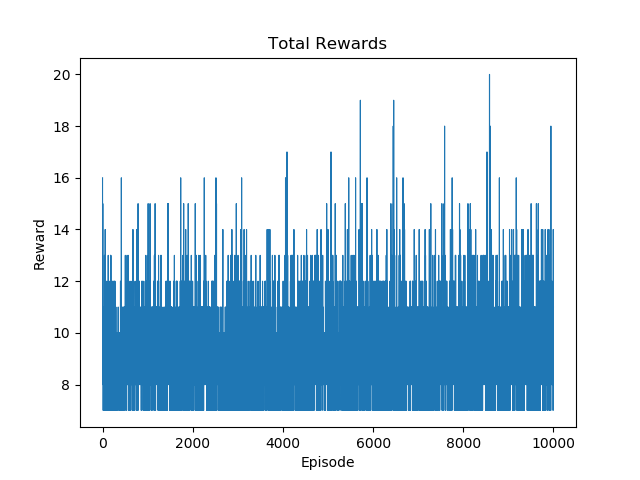
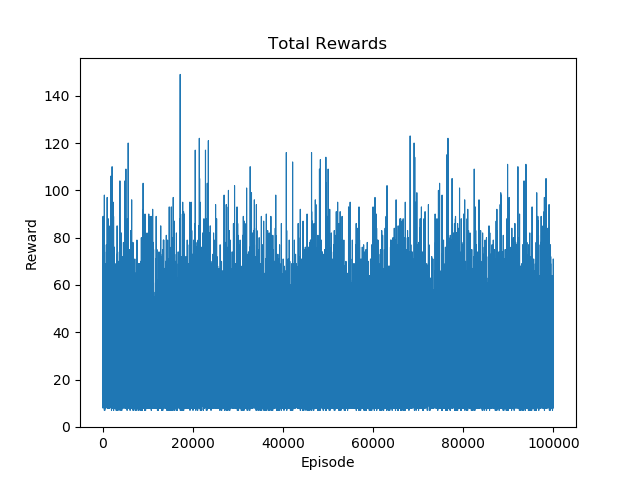
Tuned hyperparameters

diff --git a/CartPole/TabularQ/agent.py b/CartPole/TabularQ/agent.py
@@ -13,7 +13,7 @@ class Agent:
         self.env = env
         self.num_states = self.env.observation_space.shape[0]
         self.num_actions = self.env.action_space.n
-        self.q = defaultdict(lambda : [0.0 for _ in range(self.num_actions)])
+        self.q = defaultdict(lambda : [np.random.random() for _ in range(self.num_actions)])
         self.gamma = gamma
         self.alpha = alpha
         self.epsilon = epsilon
@@ -38,14 +38,11 @@ class Agent:
 
 
     def get_value(self, state):
-        value = np.max(self.q[state])
-
-        return value
+        return np.max(self.q[state])
 
 
     def get_random_action(self):
-        action = self.env.action_space.sample()
-        return action
+        return self.env.action_space.sample()
 
 
     def update_q_values(self, state, action, reward, next_state):
@@ -90,7 +87,7 @@ class Agent:
             total_reward = 0.0
 
             while True:
-                if np.random.random() <= self.epsilon:
+                if np.random.random() < self.epsilon:
                     action = self.get_random_action()
                     self.reduce_epsilon()
                 else:
@@ -105,7 +102,7 @@ class Agent:
                 state = next_state
 
                 if done:
-                    total_reward += 100
+                    total_reward += 100.0
                     total_rewards.append(total_reward)
                     mean_total_rewards = np.mean(total_rewards[-10:])
 
@@ -151,13 +148,13 @@ if __name__ == "__main__":
 
     # Hyperparameters
     GAMMA = 0.9
-    ALPHA = 0.8
-    EPSILON = 0.9
-    EPSILON_MIN = 0.1
-    EPSILON_DECAY = 0.95
+    ALPHA = 0.2
+    EPSILON = 0.1
+    EPSILON_MIN = 0.01
+    EPSILON_DECAY = 0.99
 
     PLAY = False
-    EPISODES_TRAIN = 100000
+    EPISODES_TRAIN = 1000000
     EPISODES_PLAY = 5
     
     env = gym.make("CartPole-v1")
